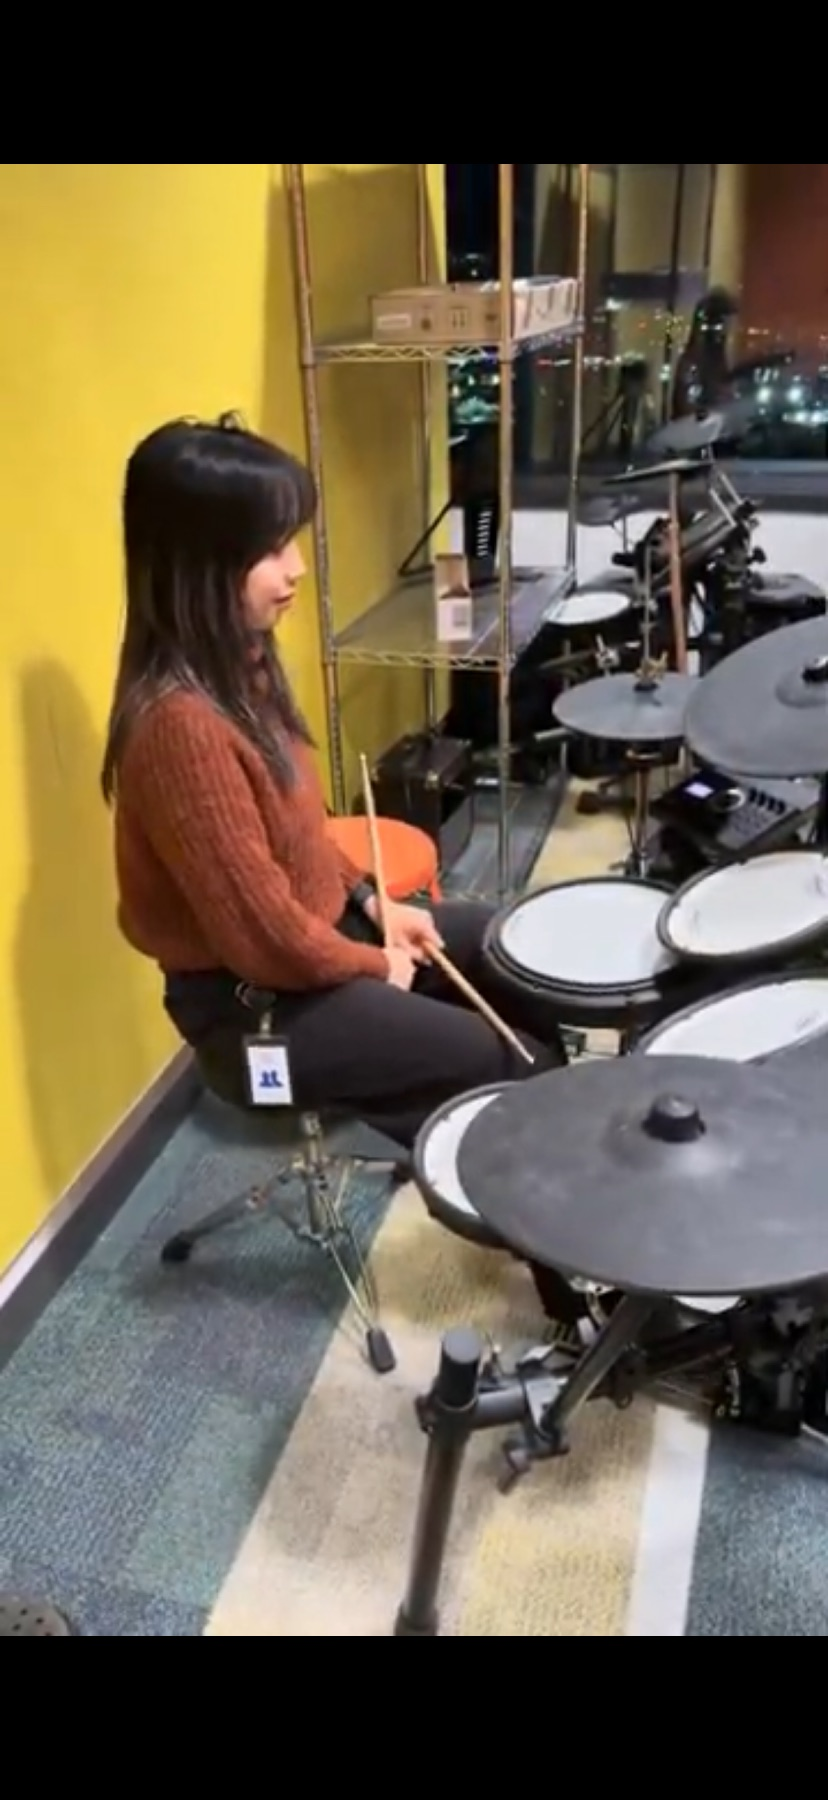
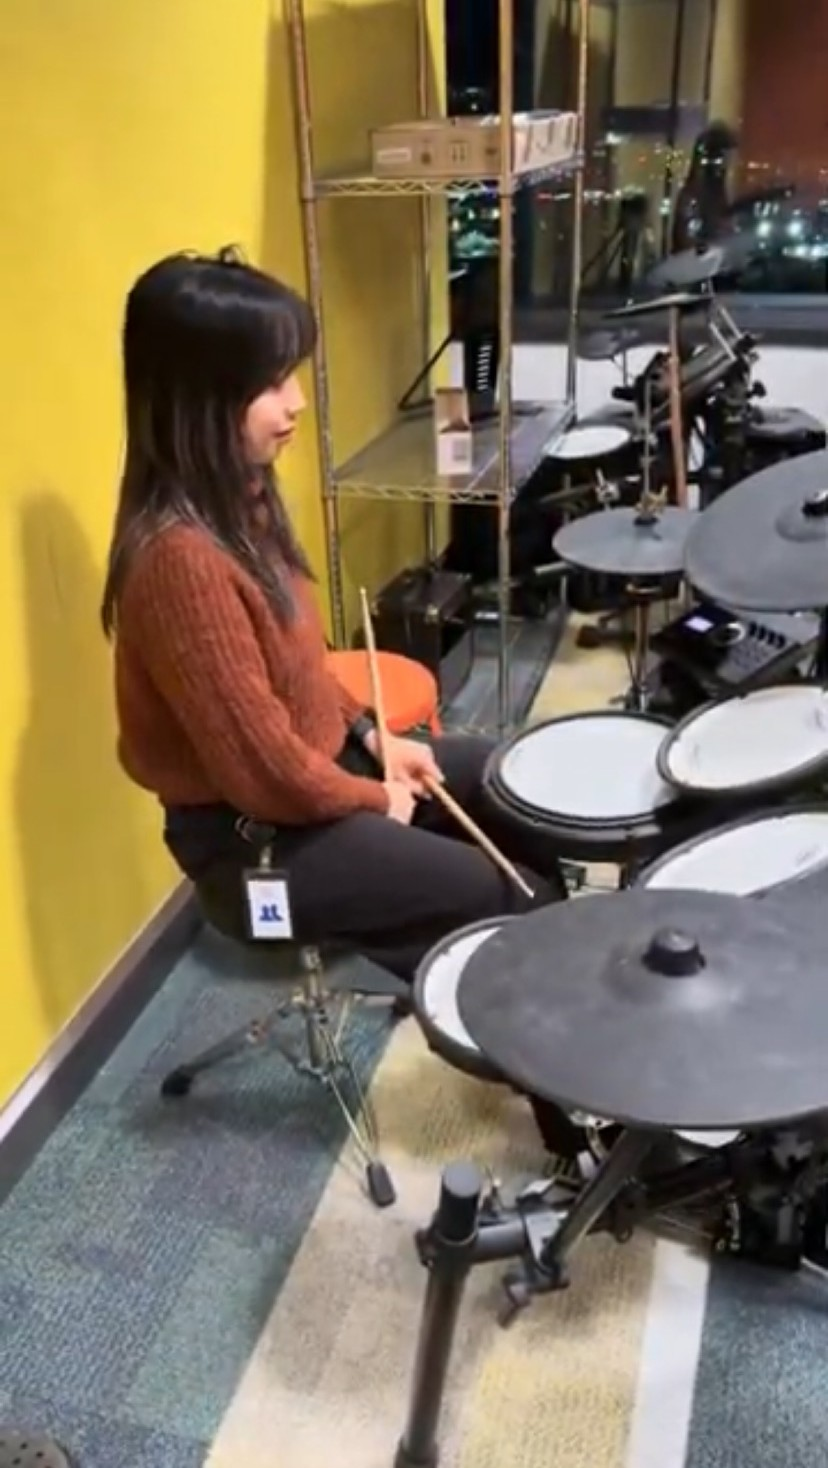
fix: crop black bars from two photos and add a heart to the closing title (#10)
Claude-Session: https://claude.ai/code/session_01BDWdjkC1VYcoBYQ3DsJ8QA

diff --git a/friends/makayla_2026/data.js b/friends/makayla_2026/data.js
@@ -36,7 +36,7 @@ window.BIRTHDAY = {
     /* ── The closing note ─────────────────────────────────── */
 
     closing: {
-        title: "Happy Birthday",
+        title: "Happy Birthday ♥",
         signoff: "— Sanchit",
     },
 };

diff --git a/friends/wynn_2026/data.js b/friends/wynn_2026/data.js
@@ -52,7 +52,7 @@ window.BIRTHDAY = {
     /* ── The closing note ─────────────────────────────────── */
 
     closing: {
-        title: "Happy Birthday",
+        title: "Happy Birthday ♥",
         signoff: "— Sanchit",
     },
 };
